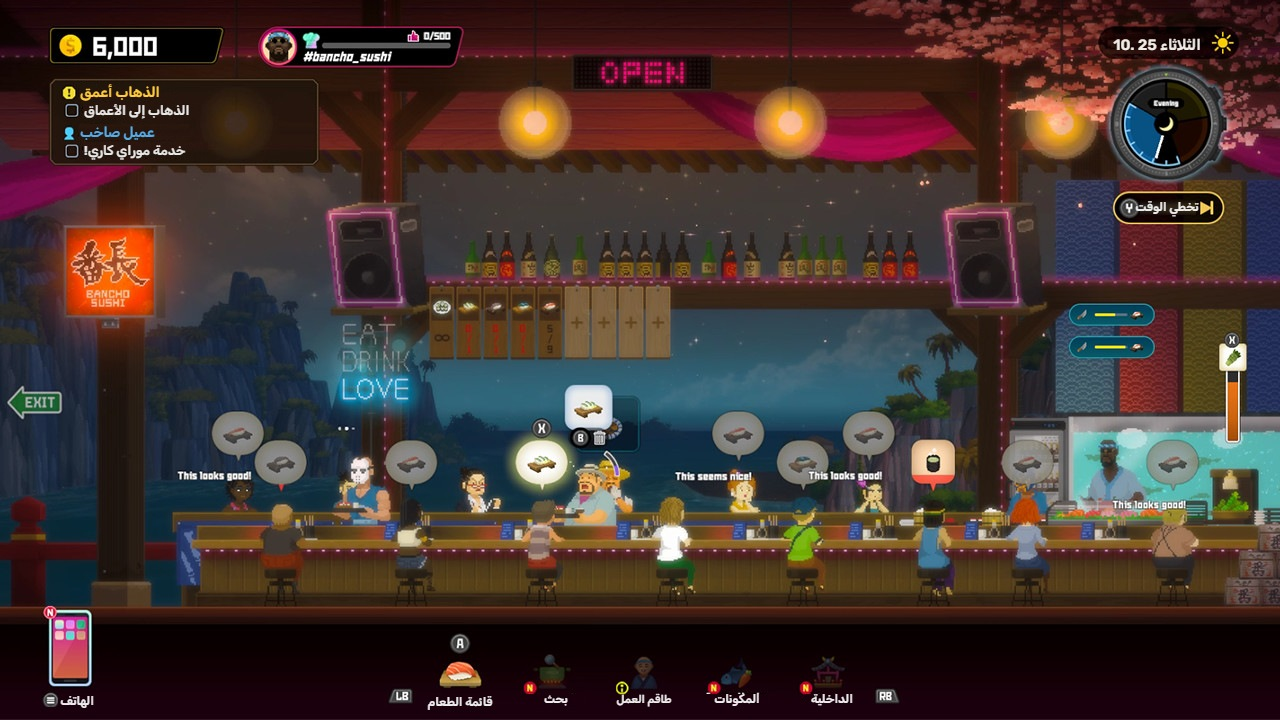
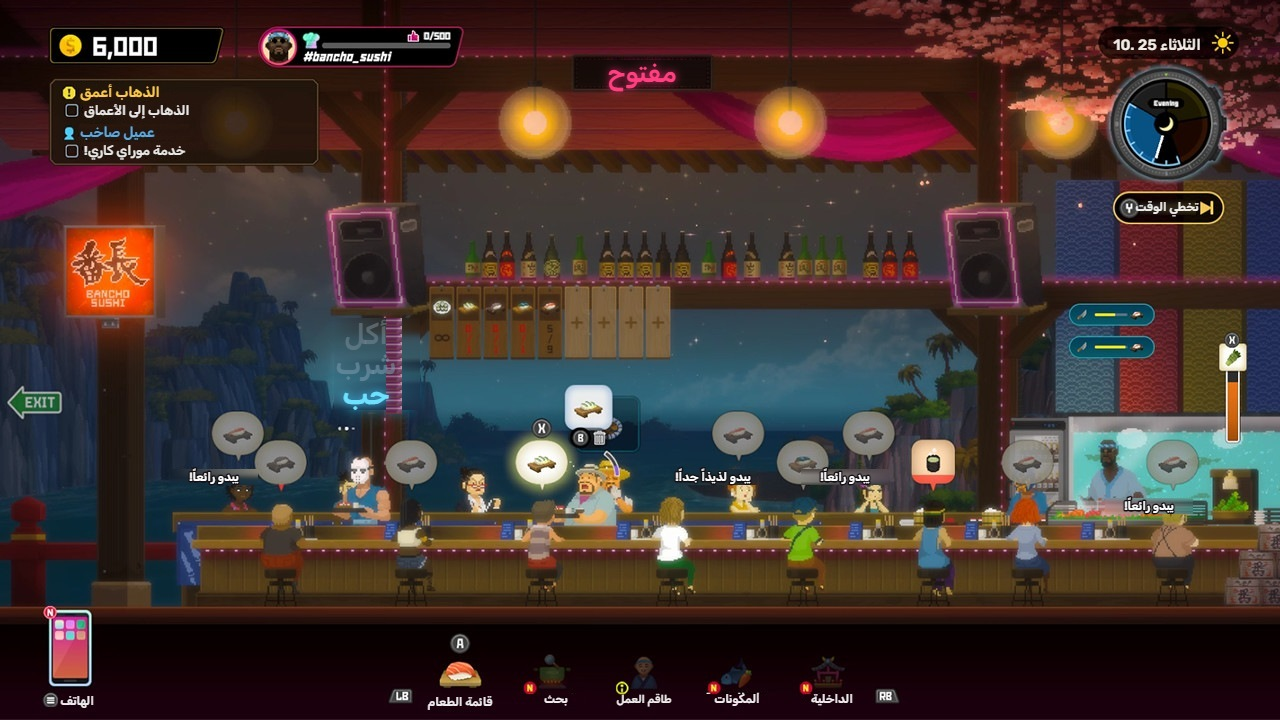
Dave: Arabic sign/bubbles/PERFECT; Celeste and Town to City in-game shots; Town to City installer; Blasphemous 2 installer update

diff --git a/index.html b/index.html
@@ -1390,17 +1390,17 @@ var GAMES=[
   engine:'Unreal Engine 5',kind:'مثبّت (exe)',size:'30.9 ميجا',date:'2026-11-14',dl:'https://github.com/abu7meddd/midad/releases/download/manor-lords/ManorLords_Arabic_Setup.exe',
   feats:['نصوص الواجهة','القوائم والتلميحات'],
   how:['أغلق اللعبة تماماً','شغّل المثبّت، واختر مجلد اللعبة إن لم يجده','اضغط تثبيت ثم افتح اللعبة. وللإزالة شغّل المثبّت واختر إزالة']},
- {id:'town-to-city',lines:3834,lg:'t2c',ba:[{en:'img/town-to-city-shot3.jpg',ar:'img/town-to-city-ar-3.jpg',ref:'مفتاح ST_CitySizeNames::Largecity',note:'اسم المدينة (Bellemont Peaks) يضعه اللاعب فيبقى كما هو.'}],glow:'#d9855266',ar:'من بلدة إلى مدينة',en:'Town to City',by:'أبو حميد',dev:'Galaxy Grove',tags:['بناء مدن','هادئة'],
+ {id:'town-to-city',real:['img/town-to-city-real-1.webp','img/town-to-city-real-2.webp'],lines:3834,lg:'t2c',ba:[{en:'img/town-to-city-shot3.jpg',ar:'img/town-to-city-ar-3.jpg',ref:'مفتاح ST_CitySizeNames::Largecity',note:'اسم المدينة (Bellemont Peaks) يضعه اللاعب فيبقى كما هو.'}],glow:'#d9855266',ar:'من بلدة إلى مدينة',en:'Town to City',by:'أبو حميد',dev:'Galaxy Grove',tags:['بناء مدن','هادئة'],
   blurb:'ابنِ بلدة متوسطية حالمة من القرن التاسع عشر، وساعدها على الازدهار حتى تصير مدينة عامرة. ضع كل عنصر وخصّصه بحرية لتصنع البيت المثالي لسكانك المتزايدين، في لعبة بناء مدن مريحة من مطوّري Station to Station.',
-  engine:'غير محدد',kind:'حزمة (zip)',size:'133 ميجا',date:'2026-11-03',dl:'https://github.com/abu7meddd/midad/releases/download/town-to-city/Town_To_City_Arabic_Patch.zip',
-  feats:['نصوص اللعبة','ملفات معدّلة جاهزة للنسخ'],
-  how:['فك ضغط الحزمة','انسخ الملفات فوق مجلد اللعبة','شغّل اللعبة']},
+  engine:'غير محدد',kind:'مثبّت (exe)',size:'152.4 ميجا',date:'2026-11-22',dl:'https://github.com/abu7meddd/midad/releases/download/town-to-city/TownToCity-Arabic-Setup.exe',
+  feats:['نصوص اللعبة','مثبّت يضع الملفات تلقائياً'],
+  how:['أغلق اللعبة تماماً','شغّل المثبّت واختر مجلد اللعبة إن لم يجده','اضغط تثبيت ثم افتح اللعبة']},
  {id:'probably-stolen',lines:6681,lg:'ps',ba:[{en:'img/probably-stolen-shot1.jpg',ar:'img/probably-stolen-ar-1.jpg',ref:'حوار جو وايلد 420216476319859، مطلوب 93578349003980800، اليوم 273500078915614، الإيجار خلال 273500078915613',note:'أسماء الشخصيات المرسومة داخل الصورة تبقى كما هي.'},{en:'img/probably-stolen-shot2.jpg',ar:'img/probably-stolen-ar-2.jpg',ref:'طابعة 412772035510307، طلب سريع 172529243283832832، جاهز 193096504361034، المدخلات والمخرجات والوحدة والرقاقة، إنهاء 99322042457571328'},{en:'img/probably-stolen-shot3.jpg',ar:'img/probably-stolen-ar-3.jpg',ref:'حوار اللص 18267056043245618، دليل التعرف 144609586749161472، السمات 144609586782715904 إلى 144609586782715909'}],glow:'#3aa6c466',ar:'مسروقة غالباً',en:'Probably Stolen',by:'أبو النوفي',dev:'Questing Goose Studio',tags:['سايبربانك','محاكاة متجر'],
   blurb:'«مسروقة غالباً» (Probably Stolen) محاكاة إدارة متجر بأجواء السايبربانك، تدور في محطة فضائية بائسة. اصنع وتاجر وهرّب بضائع مشبوهة المصدر، وتنقّل بين ولاءات الفصائل، وقرّر إلى أي مدى أنت مستعد للذهاب كي تبقى طافياً. اكسب ما يكفي لشراء متجرك قبل أن يجبرك ارتفاع الإيجار على الاستسلام.',
   engine:'غير محدد',kind:'مثبّت (exe)',size:'18.9 ميجا',date:'2026-11-14',dl:'https://github.com/abu7meddd/midad/releases/download/probably-stolen/ProbablyStolen_Arabic_Setup.exe',
   feats:['تعريب النصوص'],
   how:['أغلق اللعبة تماماً','شغّل المثبّت، واختر مجلد اللعبة إن لم يجده','اضغط تثبيت ثم افتح اللعبة. وللإزالة شغّل المثبّت واختر إزالة']},
- {id:'dave-the-diver',lines:16679,lg:'dave',ba:[{en:'img/dave-the-diver-ba-en-1.jpg',ar:'img/dave-the-diver-ar-1.jpg',ref:'Mission_Group_Name_10003، Mission_Condition_10030056، Mission_Group_Name_40001، Mission_Condition_40002، Tue_Short_forchina، ContentsName_DaycodeSkip، UI_Smartphone، SushiBar_Menu وResearch وStaff وIngredients وInterior',note:'عبارات فقاعات الزبائن فوق مشهد المطعم («This looks good!») تُركت كما هي.'},{en:'img/dave-the-diver-ba-en-2.jpg',ar:'img/dave-the-diver-ar-2.jpg',ref:'UI_Sushi_Guide_QTE_Beer، Wed_Short_forchina، UI_Smartphone، SushiBar_Menu وResearch وStaff وIngredients وInterior',note:'كلمة PERFECT مرسومة داخل اللعبة فتبقى كما هي.'}],glow:'#2fb7e066',ar:'ديف الغوّاص',en:'DAVE THE DIVER',by:'أبو النوفي',dev:'MINTROCKET',tags:['مغامرة','محاكاة','لعب أدوار'],
+ {id:'dave-the-diver',lines:16679,lg:'dave',ba:[{en:'img/dave-the-diver-ba-en-1.jpg',ar:'img/dave-the-diver-ar-1.jpg',ref:'Mission_Group_Name_10003، Mission_Condition_10030056، Mission_Group_Name_40001، Mission_Condition_40002، Tue_Short_forchina، ContentsName_DaycodeSkip، UI_Smartphone، SushiBar_Menu وResearch وStaff وIngredients وInterior',note:'لافتة «مفتوح» وكلمات جدار «أكل · شرب · حب» مركّبة بالعربية على اللقطة (تقريب تركيب). عبارات فقاعات الزبائن مركّبة كذلك بصياغة تقريبية (ما لقيت نصها في ملفات التعريب).'},{en:'img/dave-the-diver-ba-en-2.jpg',ar:'img/dave-the-diver-ar-2.jpg',ref:'UI_Sushi_Guide_QTE_Beer، Wed_Short_forchina، UI_Smartphone، SushiBar_Menu وResearch وStaff وIngredients وInterior',note:'كلمة «ممتاز» (PERFECT) وجدار «أكل · شرب · حب» ولافتة «مفتوح» مركّبة بالعربية على اللقطة (تقريب تركيب).'}],glow:'#2fb7e066',ar:'ديف الغوّاص',en:'DAVE THE DIVER',by:'أبو النوفي',dev:'MINTROCKET',tags:['مغامرة','محاكاة','لعب أدوار'],
   blurb:'«ديف الغوّاص» (DAVE THE DIVER) لعبة مغامرات وأدوار هادئة تُلعب فردياً، تجمع بين استكشاف أعماق البحر وصيد الأسماك نهاراً وإدارة مطعم سوشي ليلاً. انضمّ إلى ديف وأصدقائه الطريفين وهم يكشفون أسرار الحفرة الزرقاء الغامضة.',
   engine:'Unity',kind:'مثبّت (exe)',size:'75.1 ميجا',date:'2026-11-14',dl:'https://github.com/abu7meddd/midad/releases/download/dave-the-diver/DaveTheDiver_Arabic_Setup.exe',
   feats:['تعريب القوائم والحوارات والمهمات والأسماك','خط Rubik SemiBold','أربع حزم بيانات تُستبدل مع نسخ احتياطي للأصل'],
@@ -1415,7 +1415,7 @@ var GAMES=[
   engine:'Unity',kind:'مثبّت (exe)',size:'75.9 ميجا',date:'2026-11-12',dl:'https://github.com/abu7meddd/midad/releases/download/dredge/DREDGE-Arabic-Setup.exe',
   feats:['نصوص اللعبة وقوائمها وحواراتها','شعار اللعبة ولافتات النسخة الكاملة بالعربي','خط ثمانية Bold','مثبّت بهوية أبو حميد، مع نسخ احتياطي للأصل وإزالة'],
   how:['أغلق اللعبة تماماً','شغّل المثبّت واختر مجلد اللعبة','اضغط تثبيت ثم افتح اللعبة. وللإزالة شغّل المثبّت واختر إزالة']},
- {id:'celeste',lines:525,lg:'celeste',ba:[{"en": "img/celeste-ba-en-1.jpg", "ar": "img/celeste-ar-1.jpg", "ref": "CH0_GRANNY (المقطع 2: The sign out front is busted… / is this the Mountain trail?)", "note": "اللون السماوي لكلمة «الجبل» من وسم اللعبة نفسه ({# 96EFFF}). موضع النص وكسر الأسطر تقريب تركيب."}, {"en": "img/celeste-ba-en-2.jpg", "ar": "img/celeste-ar-2.jpg", "ref": "CH4_GONDOLA (المقطع 37: I can't breathe.)", "note": "موضع النص في الصندوق تقريب تركيب."}, {"en": "img/celeste-ba-en-3.jpg", "ar": "img/celeste-ar-3.jpg", "ref": "CH3_OSHIRO_FRONT_DESK (المقطع 5: Welcome to the world-renowned / Celestial Resort Hotel!)", "note": "السطر الثاني بالحجم الكبير كما في اللعبة ({big}). حركة التموّج ({~}) لا تظهر في صورة ثابتة، وموضع النص تقريب تركيب."}],glow:'#8ec5ff66',ar:'سيليست',en:'Celeste',by:'أبو حميد',dev:'Maddy Makes Games / Extremely OK Games',tags:['منصّات','مغامرة','مستقل'],
+ {id:'celeste',real:['img/celeste-real-1.webp','img/celeste-real-2.webp','img/celeste-real-3.webp'],lines:525,lg:'celeste',ba:[{"en": "img/celeste-ba-en-1.jpg", "ar": "img/celeste-ar-1.jpg", "ref": "CH0_GRANNY (المقطع 2: The sign out front is busted… / is this the Mountain trail?)", "note": "اللون السماوي لكلمة «الجبل» من وسم اللعبة نفسه ({# 96EFFF}). موضع النص وكسر الأسطر تقريب تركيب."}, {"en": "img/celeste-ba-en-2.jpg", "ar": "img/celeste-ar-2.jpg", "ref": "CH4_GONDOLA (المقطع 37: I can't breathe.)", "note": "موضع النص في الصندوق تقريب تركيب."}, {"en": "img/celeste-ba-en-3.jpg", "ar": "img/celeste-ar-3.jpg", "ref": "CH3_OSHIRO_FRONT_DESK (المقطع 5: Welcome to the world-renowned / Celestial Resort Hotel!)", "note": "السطر الثاني بالحجم الكبير كما في اللعبة ({big}). حركة التموّج ({~}) لا تظهر في صورة ثابتة، وموضع النص تقريب تركيب."}],glow:'#8ec5ff66',ar:'سيليست',en:'Celeste',by:'أبو حميد',dev:'Maddy Makes Games / Extremely OK Games',tags:['منصّات','مغامرة','مستقل'],
   blurb:'«سيليست» (Celeste) لعبة منصّات محكمة من مبتكري TowerFall: ساعد مادلين على النجاة من شياطينها الداخلية في رحلتها إلى قمة جبل سيليست. واجه مئات التحديات المصنوعة يدوياً، واكشف أسراراً ماكرة، وركّب لغز الجبل.',
   engine:'XNA / Monocle (.NET)',kind:'مثبّت (exe)',size:'33.4 ميجا',date:'2026-11-12',dl:'https://github.com/abu7meddd/midad/releases/download/celeste/Celeste-Arabic-Setup.exe',
   feats:['القوائم والإعدادات وكل الحوارات','وسوم التلوين والتموّج والتأكيد سليمة','خط ثمانية Sans Black','تعريب 6 صور من الواجهة (الافتتاح والقوائم والمذكرة)','مثبّت بهوية أبو حميد'],
@@ -1449,7 +1449,7 @@ var GAMES=[
  {id:'blasphemous-2',lines:2572,lg:'bl2',bigshots:1,
   glow:'#4f7f8c66',ar:'بلاسفيموس 2',en:'Blasphemous II',by:'أبو حميد',dev:'The Game Kitchen',tags:['منصّات','حركة','مستقل'],
   blurb:'«بلاسفيموس 2» (Blasphemous II): يستيقظ «التائب» وينضم إليه «بلاسفيموس» من جديد في صراع لا ينتهي ضد «المعجزة». اغطس في عالم جديد محفوف بالمخاطر، مليء بالأسرار والألغاز التي تنتظر من يكشفها، وشقّ طريقك عبر الوحوش الشنيعة التي تقف بينك وبين غايتك: إنهاء الدورة مرة وإلى الأبد.',
-  engine:'Unity (IL2CPP)',kind:'مثبّت (exe)',size:'33.7 ميجا',date:'2026-11-20',dl:'https://github.com/abu7meddd/midad/releases/download/blasphemous-2/Blasphemous2-Arabic-Setup.exe',
+  engine:'Unity (IL2CPP)',kind:'مثبّت (exe)',size:'93.9 ميجا',date:'2026-11-22',dl:'https://github.com/abu7meddd/midad/releases/download/blasphemous-2/Blasphemous2-Arabic-Setup.exe',
   feats:['ترجمة كاملة: الحوارات والأدعية والمتاع والإنجازات والشعار','شعار اللعبة بالعربي في شاشة البداية','خط عربي واضح مع اتجاه كتابة RTL','نسخة احتياطية للملفات الأصلية وإزالة نظيفة بضغطة واحدة'],
   how:['أغلق اللعبة تماماً','شغّل المثبّت واضغط تثبيت','شغّل اللعبة مباشرة: العربية تحل محل الإنجليزية. وللإزالة شغّل المثبّت واختر إزالة']},
  {id:'stardew-valley',lines:13301,lg:'sdv',ba:[{"en": "img/stardew-valley-ba-en-1.jpg", "ar": "img/stardew-valley-ar-1.jpg", "ref": "Data/Festivals/summer11.xnb ← Governor (الصفحة الأولى قبل #$e#)، Strings/NPCNames.xnb ← Governor", "note": "نص الحوار واسم المتحدث من ملفات اللعبة نفسها (النص الإنجليزي الأصلي في Content والعربي في حزمة التعريب). الصفحة الثانية من الحوار («أتحدث مع السيدة…») لا تظهر في اللقطة. موضع النص وكسر الأسطر تقريب تركيب."}, {"en": "img/stardew-valley-ba-en-2.jpg", "ar": "img/stardew-valley-ar-2.jpg", "ref": "Data/Events/SeedShop.xnb ← «1/f Abigail 500/…» المقطع 45، Strings/NPCNames.xnb ← Abigail", "note": "عبارة أبيغيل ضمن مشهد حدث في غرفتها (سطر speak 45 في الحدث)، واسمها من NPCNames. لقطات Steam الأربع عشرة الأخرى لا نص فيها غير الرسوم، فلا قبل وبعد لها. موضع النص تقريب تركيب."}],
@@ -1595,6 +1595,8 @@ function initSky(){
   size();window.addEventListener('resize',function(){clearTimeout(cv._r);cv._r=setTimeout(size,200)});requestAnimationFrame(frame);
 }function buildMural(){initSky();initTea()}/* سجل التحديثات الحقيقي: أضف سطراً هنا عند كل إضافة أو تحديث (t: إضافة | تحديث) */
 var LOG=[
+ {d:'2026-11-22',t:'تحديث',id:'town-to-city',n:'نسخة جديدة من التعريب بمثبّت (exe) بدل الحزمة.'},
+ {d:'2026-11-22',t:'تحديث',id:'blasphemous-2',n:'نسخة جديدة من المثبّت (حجم أكبر).'},
  {d:'2026-11-21',t:'إضافة',id:'ori-will-of-the-wisps',n:'تعريب القصة والحوارات والمهام والقدرات والقوائم مع شعار اللعبة بالعربي، بمثبّت أبو النوفي.'},
  {d:'2026-11-21',t:'إضافة',id:'ori-blind-forest',n:'تعريب النسخة النهائية كاملة: القصة وشجرة الأرواح والقدرات والقوائم مع شعار اللعبة بالعربي، بمثبّت أبو النوفي.'},
  {d:'2026-11-20',t:'إضافة',id:'blasphemous-2',n:'تعريب كامل للحوارات والأدعية والمتاع والإنجازات مع شعار اللعبة بالعربي، بمثبّت أبو حميد.'},
